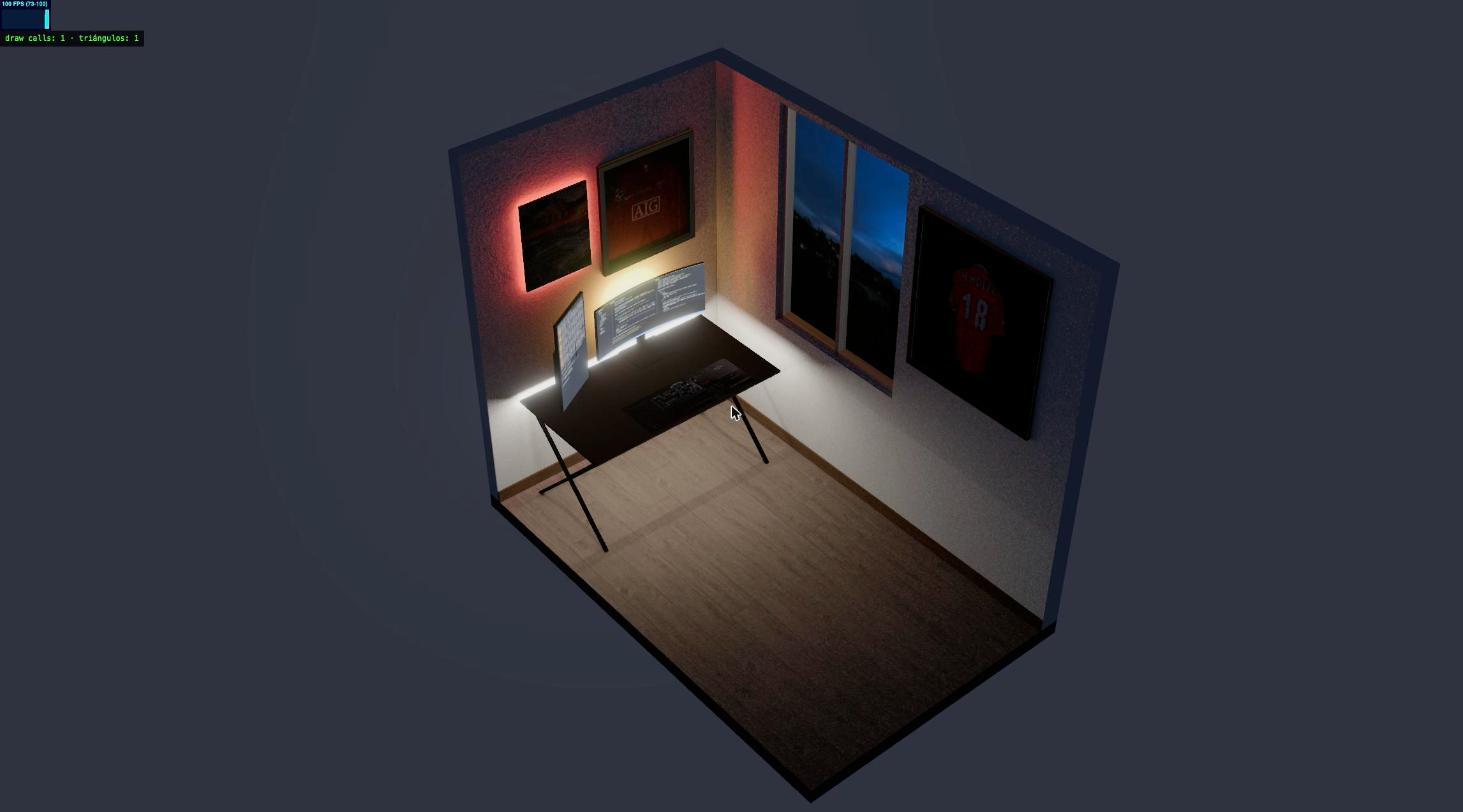
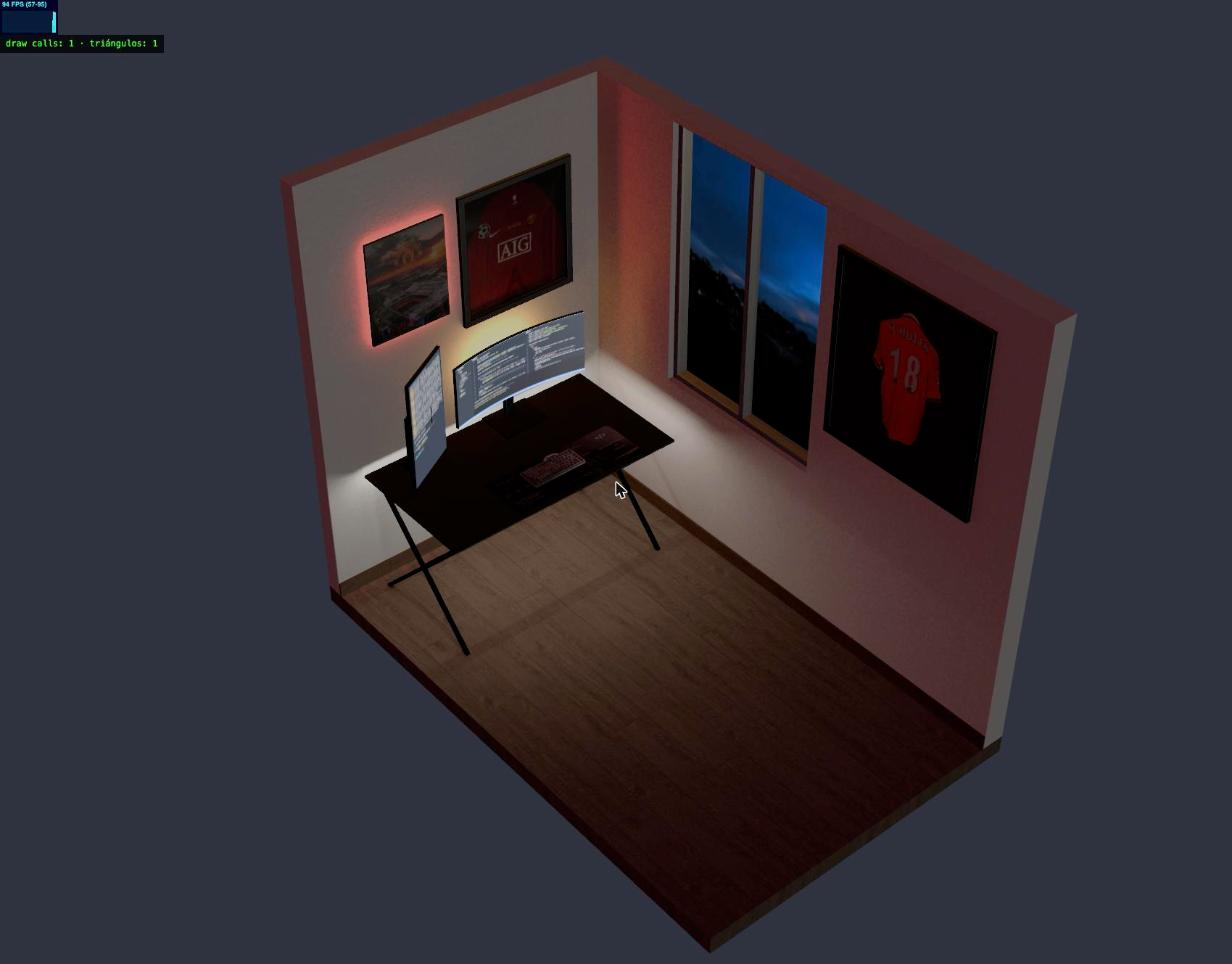
fix(lighting): restaurar el aspecto anterior (relleno del environment, sin π) con atenuado funcional
El × π sin relleno era más fiel a Blender pero amplificaba el ruido del lightmap (paredes con
granulado) y dejaba las camisetas ilegibles. El environment vuelve a rellenar todo al 60 %, ahora
como envMap propio de cada material: así envMapIntensity se respeta y el atenuado lo baja.

Changed region(s): [[0.2159, 0.0616, 0.8945, 0.9852], [0.0, 0.0, 0.1542, 0.0616]]

diff --git a/src/scene/useDimming.ts b/src/scene/useDimming.ts
@@ -16,14 +16,11 @@ interface DimState {
 }
 
 /**
- * El environment map (NightEnvironment) es solo para REFLEJOS: lo reciben, como envMap propio, los
- * metales y los materiales oscuros sin textura (vidrio, pantallas). En el resto (paredes, piso, fotos)
- * la luz es solo la horneada. Ojo: la rugosidad no sirve como criterio (el poster es brillante pero claro).
+ * Relleno del environment (NightEnvironment) sobre TODOS los materiales: además de los reflejos,
+ * aporta una luz difusa suave y pareja que hace legibles las camisetas y tapa el ruido fino del
+ * lightmap. Se asigna como envMap PROPIO de cada material (no como scene.environment), porque con
+ * scene.environment three.js ignora envMapIntensity y el atenuado de la inspección no lo podría bajar.
  */
-const reflective = (material: MeshStandardMaterial) =>
-  material.metalness > 0.3 || (!material.map && material.color.getHSL({ h: 0, s: 0, l: 0 }).l < 0.08)
-
-/** Intensidad de los reflejos del environment en los materiales que lo reciben. */
 const ENV_INTENSITY = 0.6
 
 export function useDimming(scene: Object3D) {
@@ -35,7 +32,7 @@ export function useDimming(scene: Object3D) {
       if (!mesh.isMesh) return
       if (mesh.userData.itemId) mesh.material = (mesh.material as MeshStandardMaterial).clone()
       const material = mesh.material as MeshStandardMaterial
-      const env = reflective(material) ? ENV_INTENSITY : 0
+      const env = ENV_INTENSITY
       mesh.userData.dim = {
         factor: 1,
         lightMap: material.lightMapIntensity,

diff --git a/src/scene/Room.tsx b/src/scene/Room.tsx
@@ -22,10 +22,10 @@ const DRAG_THRESHOLD_PX = 6
 
 /**
  * El cuarto exportado desde Blender con su luz horneada (design D5).
- * three.js usa el lightmap como irradiancia y el difuso de Lambert la divide por π; el horneado
- * DIFFUSE de Blender ya viene listo para multiplicar el color: por eso intensidad = k × π.
- * (Verificado contra el render de Blender. Una primera calibración "sin π" parecía correcta solo
- * porque scene.environment sumaba luz difusa a todo; ver environmentTarget.ts y la nota 09.)
+ * lightMapIntensity = k, el factor con el que se escaló el lightmap al guardarlo en 8 bits.
+ * Junto con el relleno del environment (useDimming) da el aspecto elegido. La versión "físicamente
+ * exacta" (k × π, sin relleno) se probó: coincide mejor con Blender, pero amplifica el ruido del
+ * horneado y deja las camisetas ilegibles (nota 09).
  */
 export function Room() {
   const { scene } = useGLTF(ROOM_URL, USE_DRACO, USE_MESHOPT)
@@ -37,7 +37,7 @@ export function Room() {
       if (!mesh.isMesh || !mesh.geometry.getAttribute('uv1')) return
       const material = mesh.material as MeshStandardMaterial
       material.lightMap = lightMap
-      material.lightMapIntensity = lightmap.intensity * Math.PI
+      material.lightMapIntensity = lightmap.intensity
       material.needsUpdate = true
     })
   }, [scene, lightMap])

diff --git a/src/scene/environmentTarget.ts b/src/scene/environmentTarget.ts
@@ -2,8 +2,8 @@ import { Scene } from 'three'
 
 /**
  * Escena "de mentira" donde <NightEnvironment> deja su environment map (environmentTarget.environment).
- * No se usa scene.environment de la escena real porque three.js lo aplica a TODOS los materiales
- * estándar como luz difusa e ignora su envMapIntensity (WebGLRenderer usa scene.environmentIntensity
- * cuando material.envMap es null). Así, solo los materiales que reflejan reciben el mapa como envMap propio.
+ * No se usa scene.environment de la escena real porque, con él, three.js ignora el envMapIntensity de
+ * cada material (WebGLRenderer usa scene.environmentIntensity cuando material.envMap es null) y el
+ * atenuado no podría bajarlo. Cada material recibe el mapa como envMap propio (useDimming).
  */
 export const environmentTarget = new Scene()

diff --git a/src/scene/NightEnvironment.tsx b/src/scene/NightEnvironment.tsx
@@ -2,8 +2,8 @@ import { Environment, Lightformer } from '@react-three/drei'
 import { environmentTarget } from './environmentTarget'
 
 /**
- * Environment map nocturno generado en el navegador (sin descargar HDRIs): solo aporta REFLEJOS
- * en vidrio, pantallas y metal. La luz difusa ya viene horneada en el lightmap.
+ * Environment map nocturno generado en el navegador (sin descargar HDRIs): reflejos en vidrio,
+ * pantallas y metal, y un relleno difuso suave sobre la luz horneada.
  * Se genera sobre `environmentTarget`, no sobre la escena real (ver environmentTarget.ts).
  * Los "lightformers" imitan las fuentes reales: rojo (poster), ámbar (ultrawide), blanco (escritorio).
  */
